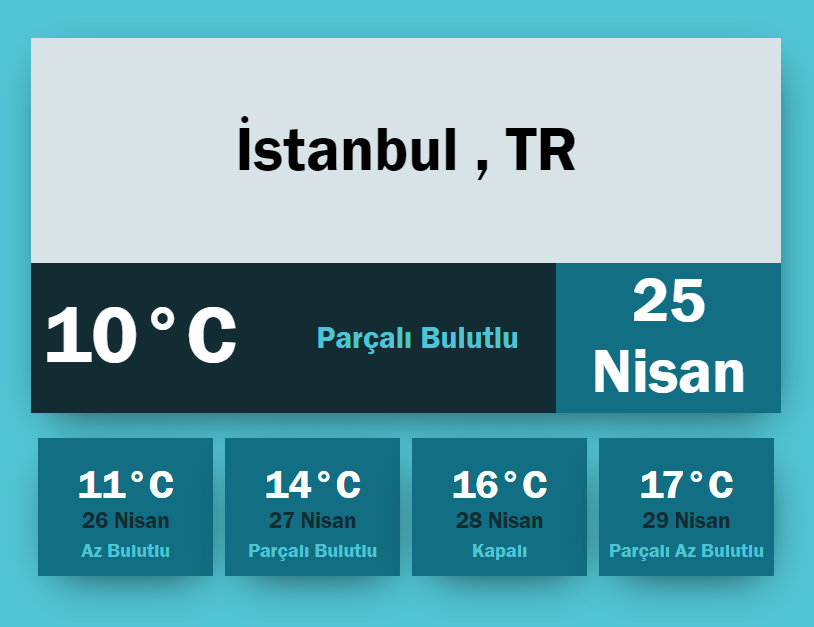
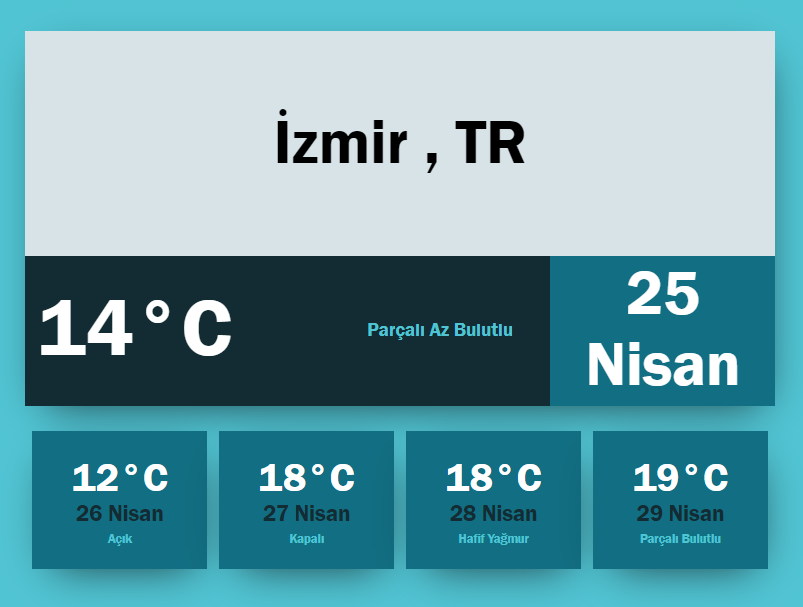
updated

Changed region(s): [[0.0311, 0.0297, 0.9651, 0.9786], [0.2802, 0.1779, 0.7161, 0.2965], [0.3736, 0.5041, 0.6538, 0.5634]]

diff --git a/style.css b/style.css
@@ -71,7 +71,7 @@ body{
 
 .weather-text{
     text-align: center;
-    font-size: 16px;
+    font-size: 10px;
     color: #51c4d3;
     margin-top: 5px;
 }
@@ -92,9 +92,9 @@ body{
 
 #result{
     display: inline;
-    font-size: 25px;
+    font-size: 15px;
     float: right;
-    margin-top: 45px;
+    margin-top: 50px;
     margin-right: 30px;
     color: #51c4d3;
 
